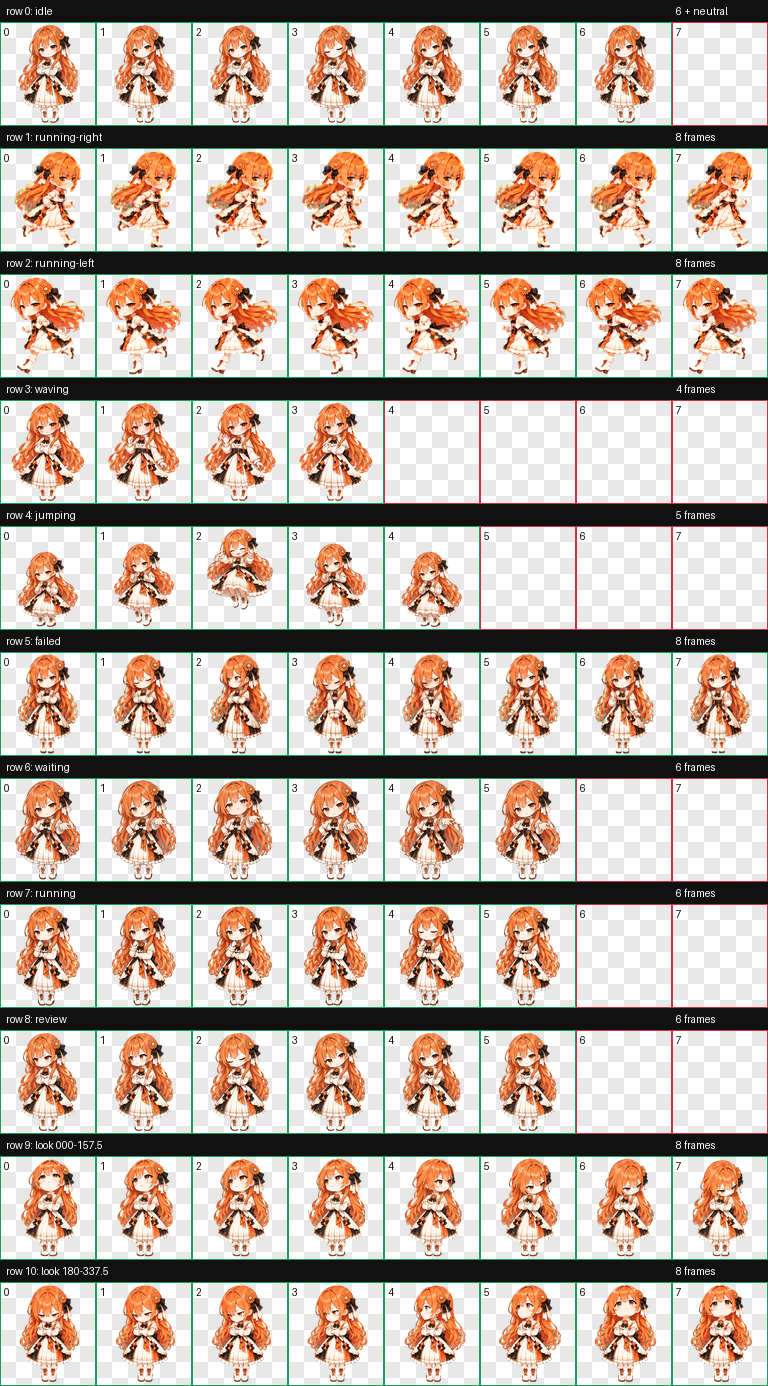
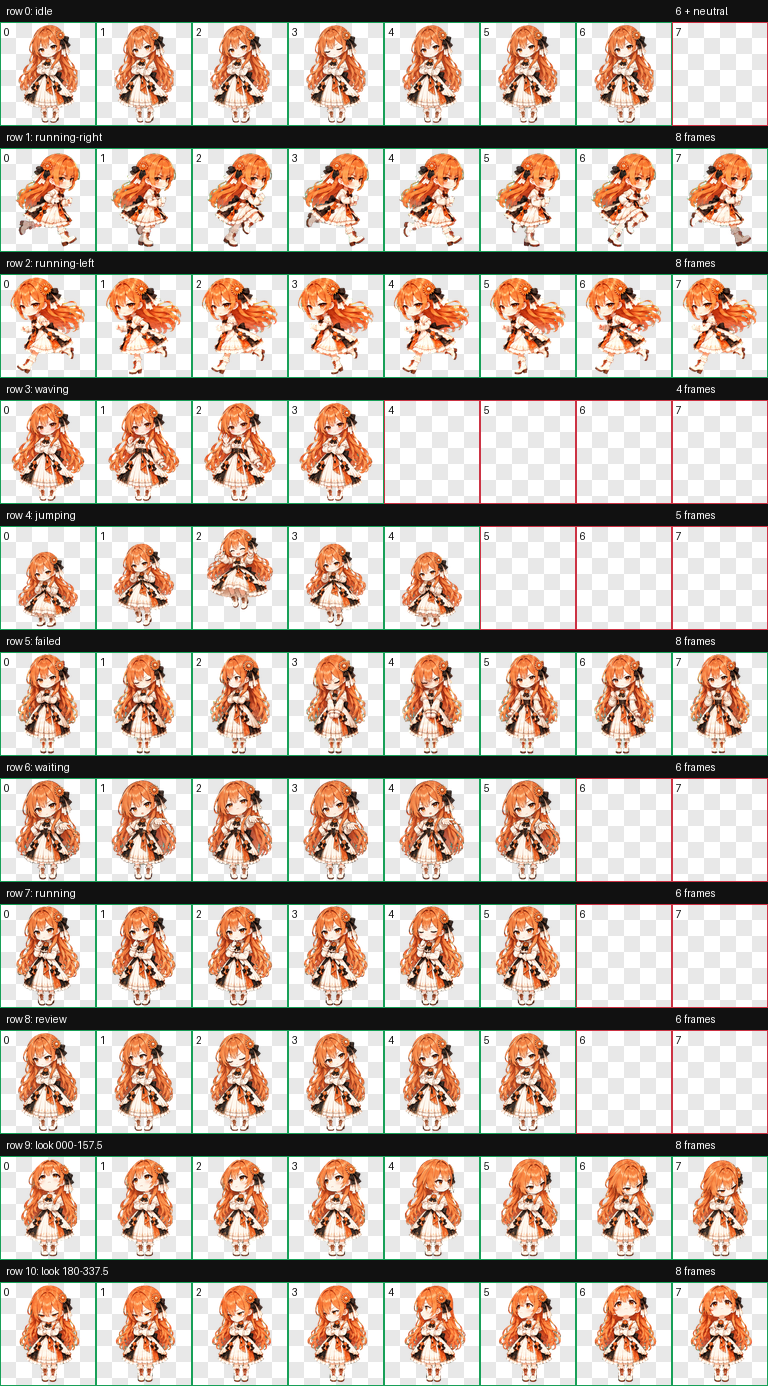
Fix right-running gait with alternating boot motion

diff --git a/README.md b/README.md
@@ -4,6 +4,12 @@
 
 **[下载宠物安装包](https://github.com/klu6163-droid/Claude-Codex-pet/releases/latest)**
 
+## v1.0.1 更新
+
+重绘向右跑的八帧步态，让双脚有更清楚的收回、抬起和向前迈出的交替变化。保留傲娇侧目，其余十行动作保持不变。
+
+![向右跑动画](preview/running-right.gif)
+
 ## 动作总图
 
 ![Claude-Codex pet 动作总图](preview/contact-sheet.png)
@@ -12,7 +18,7 @@
 
 ## 安装
 
-1. 从 Releases 下载 `Claude-Codex-pet-v1.0.0.zip` 并解压。
+1. 从 Releases 下载 `Claude-Codex-pet-v1.0.1.zip` 并解压。
 2. 将 `chengli-tsundere` 文件夹放入 `%USERPROFILE%\.codex\pets\`。
 3. 在 Codex 的宠物列表中选择 **Claude-Codex pet**。如果列表没有刷新，重新打开 Codex。
 
@@ -37,6 +43,6 @@
 - Codex sprite version：`2`
 - 动画图：透明 WebP，`1536 × 2288` 像素
 - 布局：`8 × 11`，每格 `192 × 208` 像素
[2 lines of base64/hex data omitted]
 
 角色外形参考由项目创建者提供，素材由 AI 图像工具生成，并经过动作筛选、边缘修复与排版验证。人设台词是创作说明；静态宠物包本身不会改变 Codex 助手人格，也不提供自动语音或对话。
